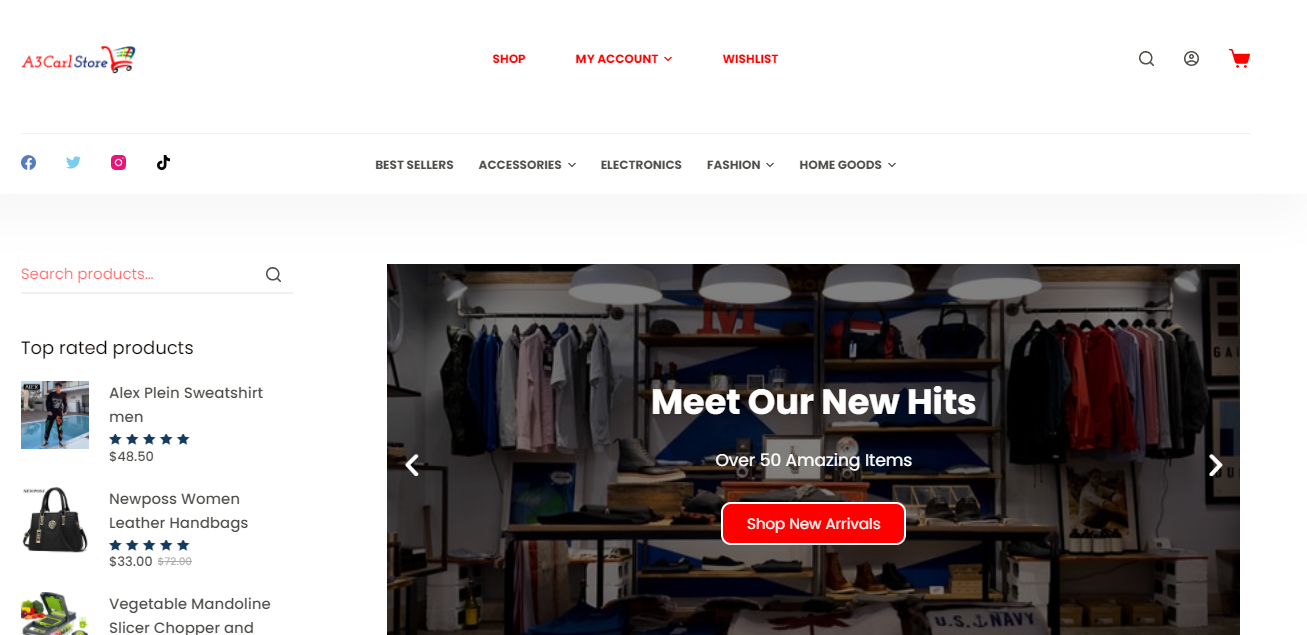
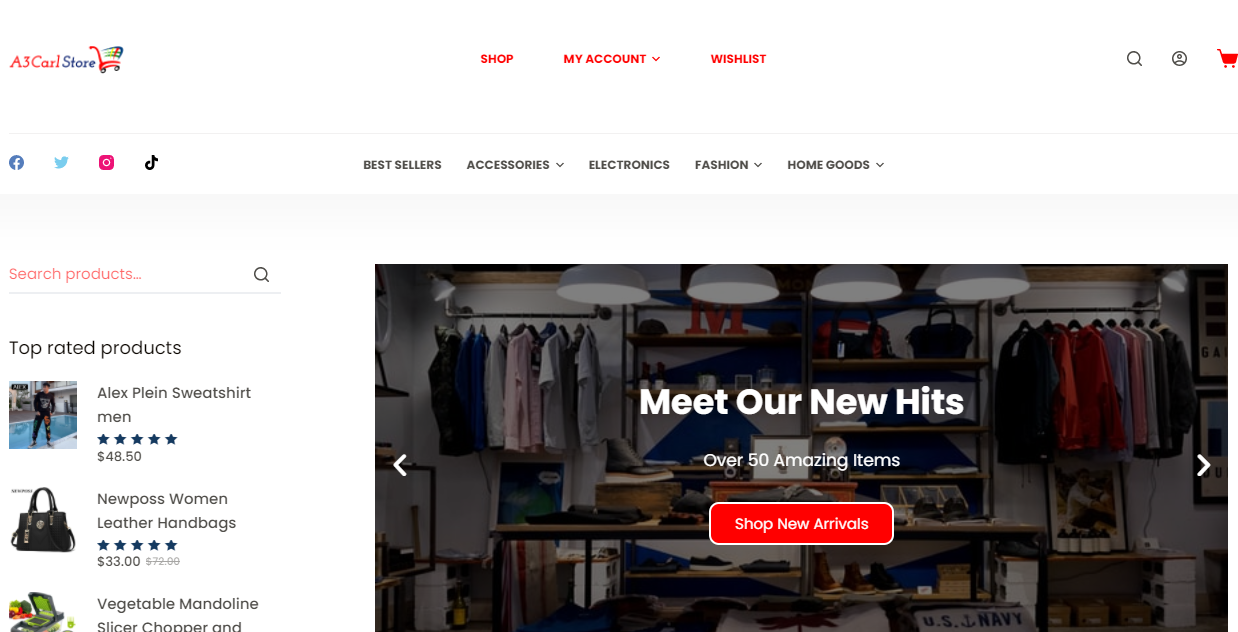
edit
image and style edit

diff --git a/style.css b/style.css
@@ -201,8 +201,8 @@ p {
 /* Hero Section */
 #hero {
   background-image: url(./img/Banner.jpg);
-  background-size: cover;
-  background-position: center center;
+  background-size: contain;
+  background-position: Top center;
   position: contain;
   z-index: 1;
 }
